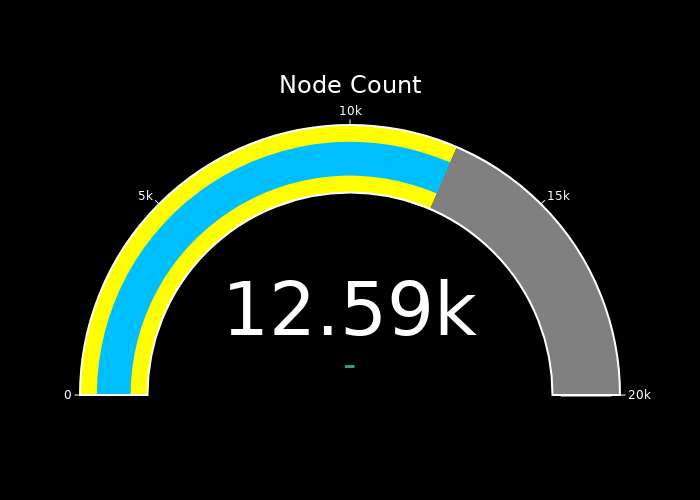
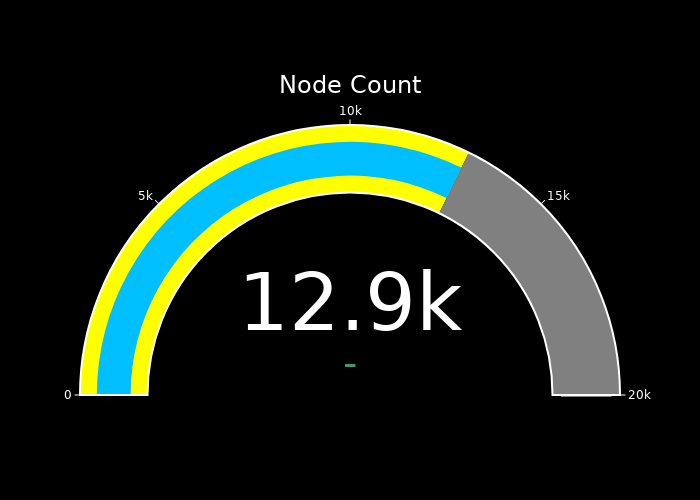
test

Changed region(s): [[0.33, 0.54, 0.69, 0.69], [0.6, 0.3, 0.69, 0.42]]

diff --git a/index.html b/index.html
@@ -12,15 +12,22 @@
     <style>
         body {
             display: flex;
+            flex-direction: column;
             justify-content: center;
             align-items: center;
             min-height: 100vh;
             margin: 0;
             background-color: #0c0d0d;
+            color: lightgrey;
         }
         img {
             max-width: 100%;
             height: auto;
+        }
+        .disclaimer {
+            margin-top: 10px;
+            font-size: 0.8em;
+            text-align: center;
         }
     </style>
     <script>
@@ -32,6 +39,7 @@
 </head>
 <body onload="updateImage();">
     <img id="nodeCountImage" src="average_nodes_over_time.png" alt="Autonomi Node Count">
+    <div class="disclaimer">This site displays an approximate network size only. It will update every 5 minutes.</div>
     <script>
         setInterval(updateImage, 200000);
     </script>

diff --git a/calculate_nodes.py b/calculate_nodes.py
@@ -3,19 +3,17 @@ import os
 import re
 import csv
 import datetime
-import numpy as np
 from pathlib import Path
-import plotly.graph_objects as go
 
 def exclude_percentiles_and_average(total_nodes_list):
     sorted_nodes = sorted(total_nodes_list)
     
     num_nodes = len(sorted_nodes)
-    if num_nodes < 7:
-        print("Not enough data to exclude 15% from both ends.")
+    if num_nodes < 20:  # Adjusted to ensure there are enough data points to exclude 5% from both ends
+        print("Not enough data to exclude 5% from both ends.")
         return None
     
-    cut_off = int(0.15 * num_nodes)
+    cut_off = int(0.05 * num_nodes)  # Change from 0.15 to 0.05 for 5% exclusion
     reduced_list = sorted_nodes[cut_off:-cut_off]
     
     if reduced_list:
@@ -73,7 +71,6 @@ def calculate_total_nodes(kbucket_data):
 
     return total_nodes
 
-
 def get_latest_kbucket_data(log_file):
     try:
         with open(log_file, 'r') as file:
@@ -111,7 +108,8 @@ def plot_current_node_count_as_gauge(current_value, min_value, max_value):
             'threshold': {
                 'line': {'color': "gray", 'width': 4},
                 'thickness': 0.75,
-                'value': max_value}
+                'value': max_value
+            }
         }
     ))
 
@@ -144,10 +142,10 @@ def main(node_base_path):
         if average_nodes is not None:
             timestamp = time_line() 
             log_data(timestamp, average_nodes)
-            print(f"Average total nodes across nodes, excluding the top and bottom 15%: {average_nodes:.2f}")
+            print(f"Average total nodes across nodes, excluding the top and bottom 5%: {average_nodes:.2f}")
             plot_current_node_count_as_gauge(average_nodes, 0, 20000)
         else:
-            print("Insufficient data after excluding top and bottom 15%.")
+            print("Insufficient data after excluding top and bottom 5%.")
     else:
         print("No node data found to calculate.")
 
